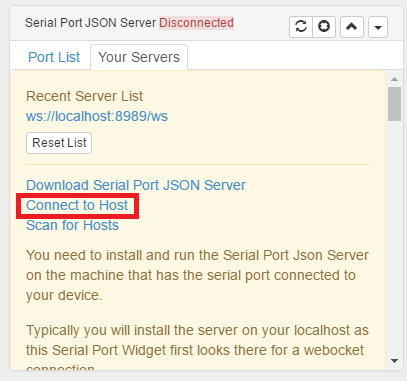
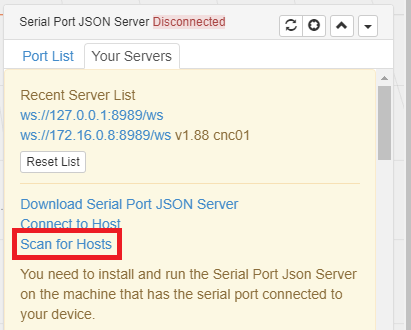
more doc updates

diff --git a/MkDocs/docs/Milling/Connecting.md b/MkDocs/docs/Milling/Connecting.md
@@ -16,8 +16,7 @@ controls become locked up / unresponsive during the process of sending G-Code / 
 
 First we need to power up the mill
 
-**TODO insert image** <br>
-<a href="../../images/Milling/Connecting/Main_Power.jpg"><img src="../../images/Milling/Connecting/Main_Power.jpg" height="50%" width="50%" ></a> <br>
+<a href="../../images/Milling/Connecting/Main_Power.jpg"><img src="../../images/Milling/Connecting/Main_Power.jpg" height="30%" width="30%" ></a> <br>
 
   * The green button is for on, the red button is for off
   * The red EStop button is the same as the red push button for off
@@ -25,17 +24,6 @@ First we need to power up the mill
 
 The grbl board and the rpi board are powered separately and are powered on all the time regardless. <br>
 Because of this reason it's important to perform a homing operation when turning the power on
-
-
-## Switching on the Spindle
-
-In order to get the spindle to operate, there's a small adjustable pot on the back of the machine to adjust the speed of the spindle. <br>
-In one direction it's off, the other it's full speed on.
-
-**TODO insert image** <br>
-<a href="../../images/Milling/Connecting/Spindle_Power.jpg"><img src="../../images/Milling/Connecting/Spindle_Power.jpg" height="50%" width="50%" ></a> <br>
-
-The spindle will only operate if the main power switch is switched on (which also powers the steppers)
 
 
 ## Starting Chillipepr
@@ -54,39 +42,30 @@ Note the link is different than normal chillipepr / grbl as we're using firmware
 
 ## Connecting Chillipepr to the CNC
 
-**TODO select discover instead**
+If you've never connected to the CNC before then select Scan for Hosts.
 
-Next we should be ready to now link / connect Chillipepr to the serial server. <br>
-Select **Connect to Host**
+<a href="../../images/Milling/Connecting/Connect1.png"><img src="../../images/Milling/Connecting/Connect1.png" height="40%" width="40%" ></a> <br>
 
-<a href="../../images/Milling/Connecting/Connect1.png"><img src="../../images/Milling/Connecting/Connect1.png" height="50%" width="50%" ></a> <br>
+This should discover the server to connect to, select this to connect
 
-Select **Connect to Localhost**
-
-<a href="../../images/Milling/Connecting/Connect2.png"><img src="../../images/Milling/Connecting/Connect2.png" height="50%" width="50%" ></a> <br>
-
-We should now see a list of the devices detected in the bottom right corner.
+<a href="../../images/Milling/Connecting/Connect2.png"><img src="../../images/Milling/Connecting/Connect2.png" height="40%" width="40%" ></a> <br>
 
 In the drop down lists make sure **Grbl** is selected, and the maximum baud rate **115,200** <br>
 The older versions of Grbl used to use a slower baud rate of around 9600, but the later versions use the max 115,200 speed instead.
 
 Once you've selected Grbl in the drop down, click the tick box on the left to initiate the connection to the board.
 
-<a href="../../images/Milling/Connecting/Connect3.png"><img src="../../images/Milling/Connecting/Connect3.png" height="50%" width="50%" ></a> <br>
+<a href="../../images/Milling/Connecting/Connect3.png"><img src="../../images/Milling/Connecting/Connect3.png" height="40%" width="40%" ></a> <br>
 
 
 ## Homing
 
-One of the first steps to do after powering up the mill is to home the device.
-Because the grbl board is on all the time but the stepper motors might not be, this means grbl can lose track of where it is up to after a power on cycle.
+One of the first steps to do after powering up the mill is to home the device. <br>
+See the [Jogging Section](./Jog/#homing-the-machine) on how to do this.
 
-Click the Homing button on the Chillipepr interface to trigger a homing cycle of the CNC mill. <br>
-This will cause the mill to move upwards and to the bottom left hand corner of the machine.
-
-TODO insert image
-
-Without homing there's the risk the machine may go too far downwards
-as this is limited by software limits which rely on grbl knowing where the home position is.
+Without homing there's the risk the machine may go too far downwards. <br>
+as this is limited by software limits which rely on grbl knowing where the home position is. <br>
+Or the machine not going far enough down if it thinks it's in the wrong place.
 
 
 ## Connecting via Http

diff --git a/MkDocs/docs/Milling/Milling.md b/MkDocs/docs/Milling/Milling.md
@@ -42,12 +42,14 @@ That being said it's generally better to make sure the feedrate is set correctly
 The reason being is that the motion will be generally less jerky overall due to grbl not having to compensate.
 
 
-## Turn on the Spindle
+## Switching on the Spindle
 
-Next switch on the spindle to get ready to start milling
+In order to get the spindle to operate, there's a small adjustable pot on the back of the machine to adjust the speed of the spindle. <br>
+In one direction it's off, the other it's full speed on.
 
-**TODO** <br>
-<a href="../../images/Milling/Milling/Spindle_Switch.jpg"><img src="../../images/Milling/Milling/Spindle_Switch.jpg" height="20%" width="20%" ></a> <br>
+<a href="../../images/Milling/Milling/Spindle_Power.jpg"><img src="../../images/Milling/Milling/Spindle_Power.jpg" height="30%" width="30%" ></a> <br>
+
+The spindle will only operate if the main power switch is switched on (which also powers the steppers)
 
 
 ## Start the G-Code
@@ -59,10 +61,10 @@ To start running the G-Code use the play button, make sure the spindle is runnin
 
 ### Using the Vacuum Cleaner
 
-While cutting we can use the henry hoover to suck up the mdf that's milled out to see what has been cut so far.
+While cutting there is a white hoover / extractor we can use to suck up the mdf dust / particles that's milled to better see what's going on.
 
-**TODO** <br>
 <a href="../../images/Milling/Milling/Hoover1.jpg"><img src="../../images/Milling/Milling/Hoover1.jpg" height="50%" width="50%" ></a> <br>
+
 
 ### Using a different starting point (Optional)
 
@@ -80,11 +82,11 @@ If you click on one of the lines of the G-Code in the list
 
 There's a couple of different ways to stop the milling
 
+
 ### Red Switch / Emergency Stop
 
 If you're really in a rush because something has horribly gone wrong, just mash the EStop button / or red power off button.
 
-**TODO Image**
 
 ### Stopping the Queue
 
@@ -93,6 +95,7 @@ However, this only stops further messages being queued into the grbl firmware.
 If you use this the CNC will probably still continue on for a while longer while it gets to the end of its buffer stream
 
 <a href="../../images/Milling/Milling/Milling3.png"><img src="../../images/Milling/Milling/Milling3.png" height="50%" width="50%" ></a> <br>
+
 
 ### Immediate Stop
 

diff --git a/MkDocs/docs/Milling/FeedRates.md b/MkDocs/docs/Milling/FeedRates.md
@@ -20,7 +20,10 @@ Also try to set the speeds in the Cam software instead of using the multiplier i
 
 ### 400W Spindle - MDF
 
-TODO we need to experiment with the below, since this was originally for the shapeoko
+**TODO** <br>
+We could do with experimenting with different speeds / spindles / materials etc.
+So far I've not tested a 6mm bit with the spindle, but we need to use one where an area needs to be leveled out 
+as trying to do this with a 3mm bit will take a long time.
 
 For MDF I'd recommend we only do **3mm** at a time on a given pass for the depth of cut <br>
 Commerical software such as hsmworks tends to default to about 1000mm/min and 333.3 mm/min but this is way too fast
@@ -33,11 +36,6 @@ Commerical software such as hsmworks tends to default to about 1000mm/min and 33
 I've noticed that when setting the max depth of cut to 2mm instead of 1mm when going around the outside of a part. <br>
 This can result in the part becoming too loose early on during the final pass / cut around the outside. <br>
 So if you are going to do that try to hold the part down a bit with something heavy.
-
-**TODO** <br>
-We could do with experimenting with different speeds / spindles / materials etc.
-So far I've not tested a 6mm bit with the spindle, but we need to use one where an area needs to be leveled out 
-as trying to do this with a 3mm bit will take a long time.
 
 ## Considerations
 
@@ -53,11 +51,5 @@ With an air cooled spindle such as the one currently on the Ox CNC this doesn't 
 
 ### Skipped Steps
 
-The Ox CNC is belt driven with Nema 23's, if we run too quickly or too deeply this can lead to uneven cuts. <br>
-One way around this is to do a rough cut initially if possible to clear out most of the material except for about 0.5mm or so.
-Then afterwards a 2nd fine pass afterwards to remove the remaining material.
-
-### Depth of Cut
-
-The deeper we cut on a pass the more heat will be generated, and the more force the Ox will need to provide. <br>
-This in turn can affect the heat generated by the stepper motors.
+The Ox CNC is belt driven with Nema 23's on a belt which can provide a lot of torque.
+But the stepper drivers are currently low power so if we run too quickly or too deeply this can lead to uneven cuts.

diff --git a/MkDocs/docs/Maintenance/Device-Overview.md b/MkDocs/docs/Maintenance/Device-Overview.md
@@ -7,6 +7,9 @@ We currently have a ooznest Ox CNC.
   * The stepper motors are Nema23's, I think 2.8A max based on the ooznest site
   * I think the stepper drivers are Pololu - Allegro A4988, which are probably limited to around 1A max without cooling
 
+<a href="../../images/Maintenance/Device-Overview/StepperDrivers.jpg"><img src="../../images/Maintenance/Device-Overview/StepperDrivers.jpg" height="20%" width="20%" ></a>
+<a href="../../images/Maintenance/Device-Overview/MainElectronics.jpg"><img src="../../images/Maintenance/Device-Overview/MainElectronics.jpg" height="20%" width="20%" ></a> <br>
+
 Maximum travel
 
   * X Axis: 563mm (left to right)
@@ -33,14 +36,16 @@ There are 2 PSU's in use
 
 ## Spindle
 
-The spindle is a 400W one controlled via a potentiometer.
+The spindle is a 400W one controlled via a potentiometer, driven by a BLDC driver.
 The plan is to switch this across to pmw at some point.
 
+<a href="../../images/Maintenance/Device-Overview/SpindleDriver.jpg"><img src="../../images/Maintenance/Device-Overview/SpindleDriver.jpg" height="30%" width="30%" ></a> <br>
 
 ## Rpi
 
 There is a RpiV1 acting as a serial proxy so that we can connect to the OxCNC over the network to it's serial port.
 
+<a href="../../images/Maintenance/Device-Overview/RpiBoard.jpg"><img src="../../images/Maintenance/Device-Overview/RpiBoard.jpg" height="30%" width="30%" ></a> <br>
 
 ## End Stops
 

diff --git a/MkDocs/docs/Milling/Material.md b/MkDocs/docs/Milling/Material.md
@@ -5,13 +5,15 @@
 The CNC has a spoiler board located on its base. Generally, you try to avoid milling into the spoiler but it can be replaced. <br>
 The current method for securing material is to just use a glue gun to stick it down then peel it off afterwards.
 
+<a href="../../images/Milling/Material/GlueGun.jpg"><img src="../../images/Milling/Material/GlueGun.jpg" height="30%" width="30%" ></a> <br>
+
 Later on we may have some mounting holes for clamps, although those haven't been added in just yet.
 
 
 ## MDF
 
 So far I've used MDF 12mm thick cut into sections using the table saw. <br>
-However, it's advisable to limit the depth of a pass to about 2mm or so at one time, to avoid overloading the stepper motors on the device (milling too much out at one time)
+However, it's advisable to limit the depth of a pass to about 2mm / 3mm or so at one time, to avoid overloading the stepper motors on the device (milling too much out at one time)
 
 
 ## Metal

diff --git a/MkDocs/docs/Other/MachinableWax.md b/MkDocs/docs/Other/MachinableWax.md
@@ -1,0 +1,8 @@
+# Machinable Wax
+
+## Overview
+
+We currently have some wax and plastic we could try to use with the following process. <br>
+
+  * <https://leedshackspace.org.uk/2016/05/09/making-machinable-wax/>
+
